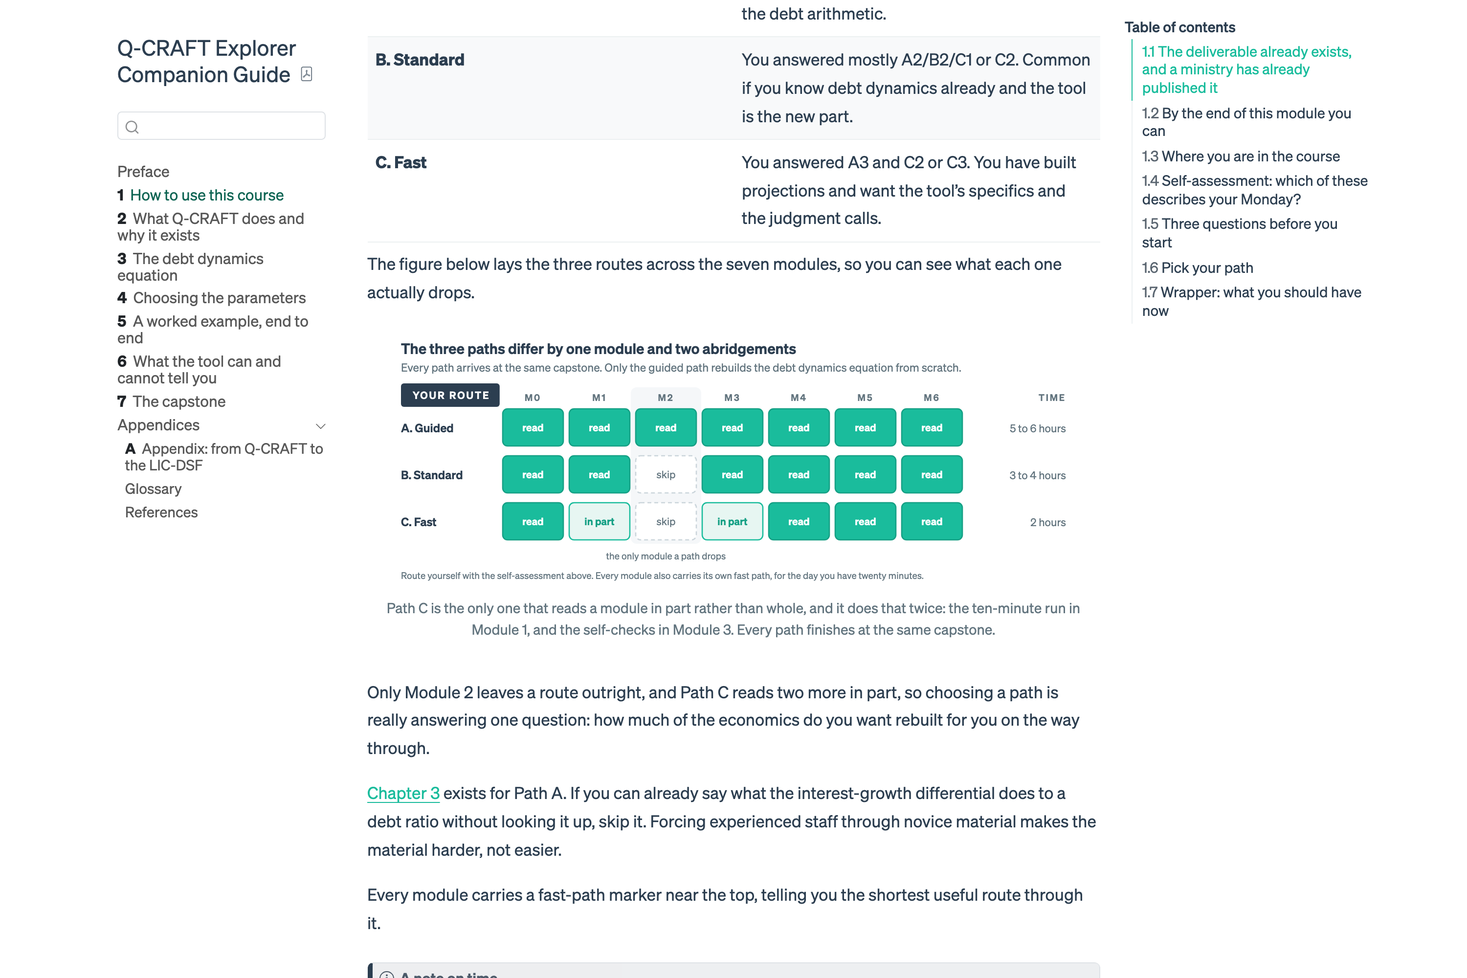
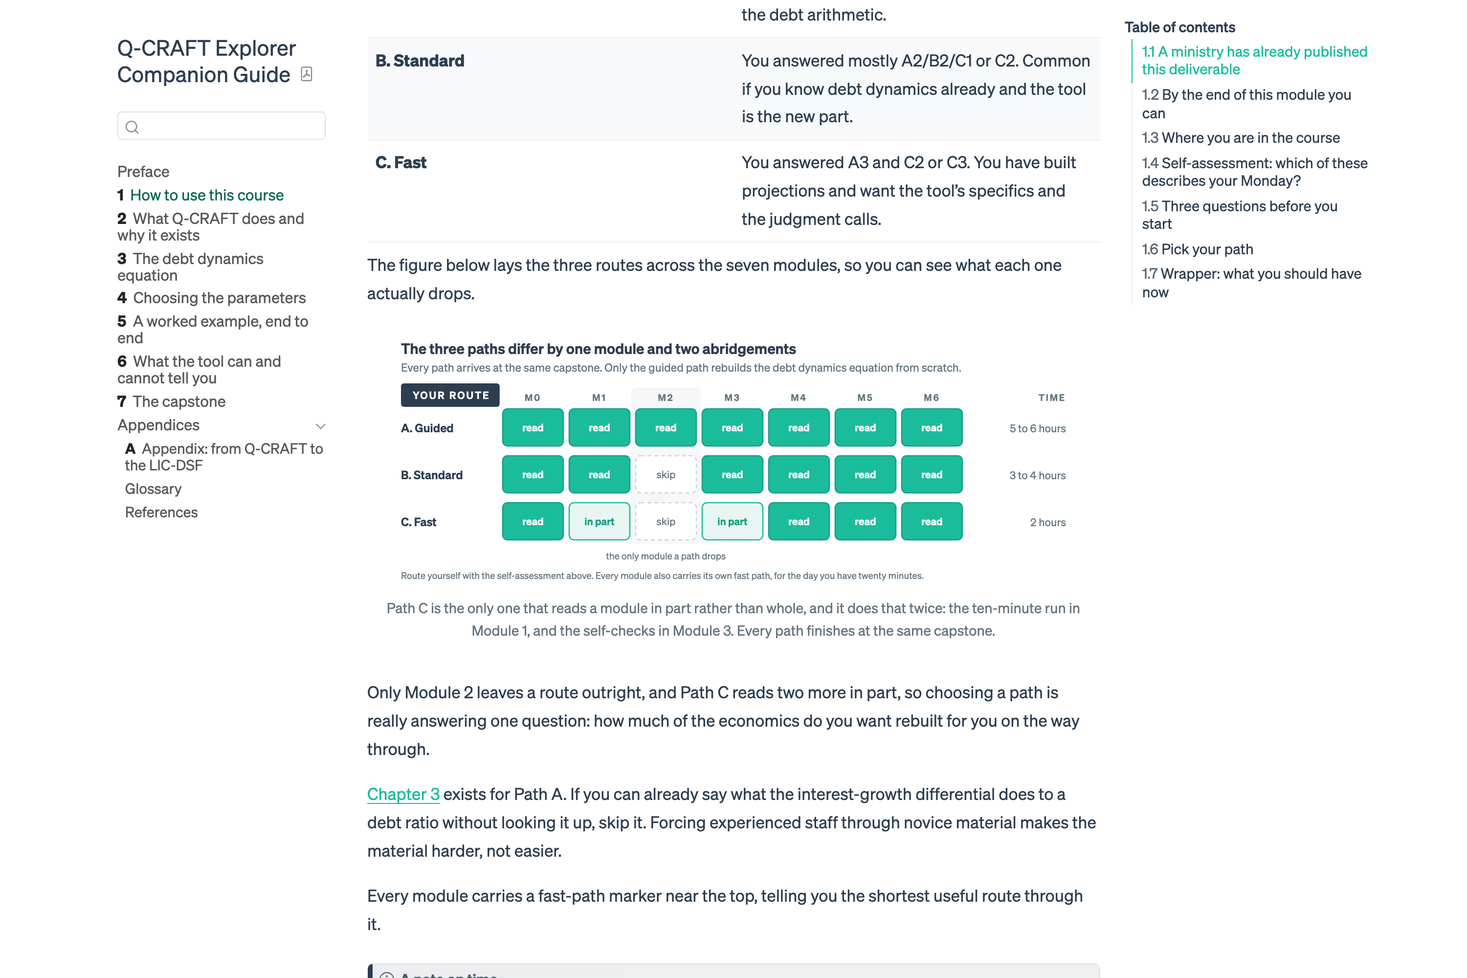
docs: run 7 morning report, the FRS verification result and the tic sweep list
Leads with the verification gate: every Uganda FRS claim checked line by line
against the PDF on disk, with two corrections (the chapter has two different
titles, and there are three source lines rather than one) and one claim I
could not verify from disk, the five-day workshop duration, flagged rather
than quietly kept or quietly cut.

Then the seventeen rule 12 replacements with before and after, the nine
headings deliberately left alone with the reason, the ten new collapsibles,
the five worked-number blocks with their arithmetic, the M1 restructure and
the three rounds of vision QA on map v3.

diff --git a/MORNING-REPORT.md b/MORNING-REPORT.md
@@ -4,6 +4,200 @@ Branch: `feat/lane4-course`. Nothing pushed, no remotes added. Run dates 2026-08
 
 Most recent run first.
 
+## Run 7: the FRS verified, the Lego arc, layered callouts
+
+### Status
+
+Done. Both profiles render clean: `quarto render docs/companion-guide --profile brand` exits 0, then `quarto render docs/companion-guide` exits 0, neither with a warning or an unresolved cross-reference. The brand render was taken first and the default render last, so the committed artefacts are the default profile's output and no HTML page in `_book/` references the Klim stylesheet. The committed PDF is rebuilt at 98 pages, four more than run 6, the extra pages being M1's two-stage restructure and the new collapsible blocks.
+
+Five commits. The banned-tics sweep reports zero em-dashes, zero occurrences of "toil", and one semicolon, which sits in a compact table cell and is the case rule 9 allows. Marker counts are unchanged from run 6 in every cell: DRAFT FOR TEAL 26, SCREENSHOT-TODO 5, WIDGET-TODO 3, TODO headings 6. Collapsible callouts go from 18 to 28.
+
+**The headline, because it is the gate.** Every claim about the Uganda Fiscal Risk Statement FY 2024/25 checks out against the PDF in `source-materials/`. The page range, the scenario count, the 50 percent ceiling finding and the QCRAFT (2023) source line are all confirmed, with two small corrections to how they were being described. Detail in section 1.
+
+---
+
+### 1. The FRS verification gate
+
+The document is on disk at `source-materials/2024_MoFPED_Uganda-Fiscal-Risk-Statement-FY2024-25.pdf`, 31 pages, produced in Microsoft Word and dated 8 May 2024 in its own metadata. Its title page reads "FISCAL RISK STATEMENT / MINISTRY OF FINANCE, PLANNING, AND ECONOMIC DEVELOPMENT / MACROECONOMIC POLICY DEPARTMENT / FY 2024/25", with a foreword signed by Matia Kasaija (M.P), Minister of Finance, Planning and Economic Development. Printed page numbers and PDF page numbers agree throughout, so a page citation means the same thing either way.
+
+I extracted the text with `pdftotext -layout` and checked each claim against the page it is supposed to come from.
+
+| Claim as it was stated | Verdict | What the file shows |
+|---|---|---|
+| Pages 13 to 17 carry the climate section | **Confirmed** | Section III opens on printed page 13 and Section IV opens on page 18. The Q-CRAFT material specifically runs pages 14 to 17. |
+| The chapter is called "Climate Change Fiscal Risks" | **Corrected** | That is the table-of-contents title. The body heading on page 13 reads "III. CLIMATE CHANGE AND NATURAL DISASTER FISCAL RISKS". Both are now given. |
+| It reports five climate scenarios | **Confirmed** | Page 14: the tool quantifies effects "under five different climate scenarios, against a baseline". The five are named and defined on pages 14 and 15: Paris, Moderate, High, Hot, Vulnerable. |
+| Headline finding: debt passes the 50 percent of GDP fiscal rule ceiling | **Confirmed, verbatim** | Page 17: "In the High, Hot, and Vulnerable scenarios, public debt surpasses the 50 percent of GDP fiscal rule ceiling, taking on an unsustainable upward trajectory." |
+| The source line reads "QCRAFT (2023)" | **Confirmed, with a count** | Three source lines, not one. Page 15: "Source (Fig 8 & Tab 5: QCRAFT (2023)" (the opening parenthesis is unclosed in the original). Page 16 and page 17: "Source: QCRAFT (2023)". |
+| Q-CRAFT is named in the document | **Confirmed** | Page 4, in the framing section: the analysis "expanded its scope on fiscal risks associated with climate change by using the Quantitative Climate Risk Assessment Fiscal Tool (Q-CRAFT) for long term fiscal sustainability analysis." Page 14 says "Using the Q-craft tool". |
+
+The other Uganda numbers already in the course were checked at the same time, since the file was open.
+
+| Claim | Where in the course | Verdict |
+|---|---|---|
+| Table 5 baseline path: 47.1 / 36.2 / 35.8 / 47.5 debt-to-GDP at 2023 / 2050 / 2075 / 2099 | @sec-m4 target format | **Confirmed**, every cell, page 15 |
+| Primary expenditure 19.9 to 19.4, dipping to 18.8 around 2075 | @sec-m4 sanity check | **Confirmed**, Table 5 |
+| Primary deficit 6.3 to 1.4, overall deficit 3.8 at 2099 | @sec-m4 sanity check | **Confirmed**, Table 5 |
+| "the primary deficit in the Hot scenario ... 0.7 percentage points worse than baseline, thereby raising public debt by over 18 percent of GDP" | @sec-m4 fan chart reading | **Confirmed.** The document says "0.7 percent worse than the baseline"; the quoted clause is verbatim, page 17 |
+| Debt at 46.9 percent of GDP June 2023, projected 49.2 percent June 2024 | @sec-m2 self-check, @sec-m3 vintage | **Confirmed**, page 18 |
+| Debt ratio fell from 48.4, attributed partly to nominal GDP rising on high inflation | @sec-m2 self-check | **Confirmed**, page 18 |
+| Floods and epidemics about 75 percent of recorded events 1985 to 2021 | @sec-m5 exclusions table | **Confirmed**, page 13, footnoted to the World Bank Climate Risk Country Profile 2021 |
+| "Vulnerable" is the Hot Unadapted scenario under another label | @sec-m1 scenario table | **Confirmed in substance**, page 15: "Vulnerable: using the same emission as the hot ... scenario, but with slower adaptation and therefore more damaging macroeconomic impacts" |
+| GDP loss around 4 percent by end of century under Hot | @sec-m4 climate tab | **Confirmed twice.** The FRS says "a 4 percent reduction in nominal GDP by the end of the century under the Hot scenario" (page 16). The C-PIMA summary says GDP loss "could surpass 4 percentage points" |
+| Debt to 66 percent of GDP against 47.5 percent baseline | @sec-m1, @sec-m0, @sec-m4 | **Confirmed** against the C-PIMA high-level summary on disk, page 3 of that file |
+
+**Two typographical oddities in the source, noted so nobody re-derives them.** The FRS prints the Paris scenario as "SSP31-2.6" on page 14 where SSP1-2.6 is meant, and prints the Vulnerable scenario's emissions as "SSP4-7.0 90th percentile" on page 15 where the Hot scenario two paragraphs earlier is SSP3-7.0 and the text says Vulnerable uses "the same emission as the hot". The course does not repeat either string. It uses the User Guide's scenario table instead, which is the right authority for scenario definitions.
+
+**One claim I could not verify from disk, flagged rather than fixed.** The course says in three places that the September 2023 activity was a *five-day* workshop. The high-level summary on disk says only that "a new CD activity covering both areas was delivered in September 2023" and refers to "a training workshop delivered by the team for the staff of the MoFPED". It gives no duration. The five-day figure comes from `SHARED/REFERENCE-NOTES.md`, which is a binding source for this lane, so I left the wording alone. If it came from the full TA report rather than the summary, the summary is not where it can be checked. The same goes for the TA report number 2024/012 in the shared notes: the file on disk is the **High-Level Summary Technical Assistance Report HLS/24/07, February 2024**, and that is the number now in `references.qmd`.
+
+---
+
+### 2. The tic sweep: rule 12, compound assertion-amplification
+
+Rule 12 in `style-guide-writing-AI.md` bans the shape where a clause after ", and" restates the previous clause bigger for drama. The test I applied: does the second clause carry a fact the first does not? If not, it is the tic.
+
+Seventeen instances replaced. The course holds 318 other occurrences of ", and". Each of those joins two different facts, so each was left alone. Headings were checked first, since the rule says the shape is worst there.
+
+| # | File | Before | After |
+|---|---|---|---|
+| 1 | `m0-start-here.qmd` heading | The deliverable already exists, and a ministry has already published it | A ministry has already published this deliverable |
+| 2 | `m1-how-qcraft-thinks.qmd` heading | The equation needs three numbers, and the tool exists to build them | The base machine, before any climate |
+| 3 | `index.qmd` | The Fiscal Affairs Department built it for its own climate technical assistance, and that is where it is used. | The Fiscal Affairs Department built it for its own climate technical assistance. |
+| 4 | `index.qmd` | The third part belongs with the first two, and the honest way to hold it is as a pairing. | The honest way to hold the third part is as a pairing with the first two. |
+| 5 | `m1-how-qcraft-thinks.qmd` | Climate scenarios lower growth, and that is the only way climate enters the equation. | Lowering growth is the only way climate enters the equation. |
+| 6 | `m1-how-qcraft-thinks.qmd` | The second claim is narrower than the first, and the difference matters. | The second claim is narrower than the first. |
+| 7 | `m1-how-qcraft-thinks.qmd` | That machine is what this section teaches, and it is worth learning on its own, because ... | That machine is what this section teaches. It is worth learning on its own, because ... |
+| 8 | `m2-debt-equation.qmd` table cell | A zero primary balance stabilizes debt, and only here. | A zero primary balance stabilizes debt only here. |
+| 9 | `m3-parameters.qmd` | Nothing, in this case, and that is worth being clear about. | Nothing, in this case. |
+| 10 | `m4-worked-example.qmd` | The seven steps are the method, and the method is what transfers. | What transfers to your own country is the method, which is the seven steps below. |
+| 11 | `m4-worked-example.qmd` | Eighteen and a half percentage points is the headline, and it is the number that goes in the first sentence. | Eighteen and a half percentage points is the number that goes in the first sentence. |
+| 12 | `m4-worked-example.qmd` | The seven steps are a method, and the method is the part that transfers. | The seven steps are the part that transfers. |
+| 13 | `m5-boundaries.qmd` | The whole module is one pairing, and it is worth having in a single breath before the detail arrives. | Here is the whole module in one breath, before the detail arrives. |
+| 14 | `m5-boundaries.qmd` | The asymmetry matters for a narrow set of countries, and for those countries it matters a lot. | For a narrow set of countries the asymmetry matters a lot. |
+| 15 | `m5-boundaries.qmd` | **Both, in sequence, and this is the interesting one.** | **Both, in sequence.** This is the interesting one. |
+| 16 | `m6-capstone.qmd` | **One error disqualifies on its own**, and it is worth naming separately because it recurs | **One error disqualifies on its own**, and it recurs often enough to name separately |
+| 17 | `m6-capstone.qmd` | Two things arrive after the workshop, and they are part of the course rather than an afterthought. | Two things arrive after the workshop, as part of the course rather than as an afterthought. |
+
+Rows 1 and 2 are heading rewrites folded into the larger structural changes in sections 5 and 7. The other fifteen are replacements of the shape and nothing else.
+
+**Nine headings I left alone, with the reason**, so the judgment is auditable rather than silent:
+
+- "Q-CRAFT runs in a published Excel workbook, and in this Explorer" (M1). Two surfaces, two facts.
+- "Warming lowers growth, and weakens the primary balance when spending is rigid" (M1). Growth always, the primary balance conditionally. Two facts.
+- "Four tabs, and what each one is for" (M3). A count and a purpose.
+- "Five controls, and four of them shape the projection" (M3). The second clause narrows rather than amplifies.
+- "Step 1: set the parameters, and write down why" (M4). Two actions.
+- "What the tool is good at, and why it was built that way" (M5). A property and its cause.
+- "What the numbers mean, and what they do not" (M5). A contrast pair, not an escalation.
+- "the answers, and what a wrong one means now" (M6). Two different things the panel contains.
+- "Two things move the ratio: the interest-growth gap and the primary balance" (M6 wrapper). A serial list.
+
+---
+
+### 3. Layered depth: collapsible callouts as the standard
+
+Eighteen collapsible callouts before this run, 28 after. The rule I applied: the visible default carries the full message, and the collapsible carries an optional route to the same message or a numeric demonstration of it. Nothing load-bearing went behind a click.
+
+**Ten new collapsibles.** Four are the worked-number blocks in section 4. Three are conversions of existing depth in M5. One is the kitchen analogy converted in M1, one is a new M1 block holding two asides that used to interrupt the prose, and one is the page-by-page FRS anatomy in M4.
+
+**Converted from always-visible to collapsible:**
+
+| Block | File | Why it can collapse |
+|---|---|---|
+| DRAFT FOR TEAL: what conservatism does not buy you | `m5-boundaries.qmd` | The section above already states the conservatism finding with its sources. This is the second-order hazard, which is a real point and not the point. |
+| DRAFT FOR TEAL: how the asymmetry changes what you are looking at | `m5-boundaries.qmd` | "The rule" callout, the two-panel figure and the sentence under it carry the asymmetry. This block is the detail on when it bites. |
+| DRAFT FOR TEAL: why this exercise and not a worked comparison | `m5-boundaries.qmd` | Instructor-facing rationale for a pedagogical choice. A learner does not need it to do the exercise. |
+| DRAFT FOR TEAL: the kitchen version | `m1-how-qcraft-thinks.qmd` | An alternative route to a chain the prose has already walked. It now reads "prefer it as a kitchen?" and sits at the end of the base-machine section rather than in the middle of it. |
+| Two properties of the base machine worth knowing | `m1-how-qcraft-thinks.qmd` | New. Holds the partial-equilibrium limit and the seven-functions architecture aside, which were two interruptions in the old running prose. |
+
+**What did not collapse, deliberately.** M2's three DRAFT FOR TEAL blocks (building the equation from words, what the differential does, the debt-stabilizing primary balance) are the module. M4's interpretation blocks and its model two-paragraph write-up are the module's target artefact. M0's concept-inventory questions stay open with only their answers collapsed, which is the existing predict-then-check pattern.
+
+---
+
+### 4. Worked numbers, one per named equation
+
+Five equations are named in the course. Four now carry a collapsible worked example with round numbers, one pass through the arithmetic, and one sensitivity line. The fifth, the debt-stabilizing primary balance, already had its arithmetic worked in the open, so it gained the sensitivity line it was missing rather than a new block. Every figure below was computed rather than estimated.
+
+| Equation | Where | The pass | The sensitivity line |
+|---|---|---|---|
+| Debt dynamics, one year | @sec-m1 | d 60, r 8, g 6, pb -1. 60 × 1.08 / 1.06 = 61.1, then 61.1 − (−1.0) = 62.1 | Growth to 7 percent gives 61.6 instead of 62.1. Ten years of the same two settings gives 83.2 against 76.3 |
+| Debt dynamics, three years | @sec-m2 | The same setup walked to 62.1, 64.3, 66.5, with the borrowing contribution held at 1.0 a year and the amplifier growing from 1.1 to 2.2 | Growth at 7 percent lands at 64.7 rather than 66.5, so one point of growth is worth 1.8 points of ratio over three years |
+| Growth decomposition | @sec-m1 | Employment 2, productivity 3, inflation 5. 1.02 × 1.03 = 1.0506, then × 1.05 = 1.1031, so 10.31 percent against 10.00 additive | Productivity down one point gives 9.24 percent, a loss slightly larger than the point removed |
+| Expenditure growth | @sec-m1 | Productivity 3, inflation 5, population 2. 100 × 1.03 × 1.05 × 1.02 = 110.3 against 110.0 additive | Over seventy years the multiplicative path ends about 22 percent above the additive one |
+| Debt-stabilizing primary balance | @sec-m2 | Existing: 0.50 × (0.09 − 0.06) / 1.06 = 0.0142, so a surplus of about 1.4 percent of GDP | New: growth down one point raises the required surplus from 1.4 to 1.9 percent of GDP |
+
+The debt dynamics example uses the 60 percent of GDP start you specified. The 22 percent figure in the expenditure row is (1.10313 / 1.10)^70, which is where the additive shortcut stops being a rounding difference and becomes a different projection.
+
+---
+
+### 5. The Lego arc in M1
+
+M1 was one continuous explanation in which climate appeared partway through as another supplier. It is now a two-stage reveal, and the section numbering in the sidebar shows it:
+
+- **2.5 The base machine, before any climate.** Opens by saying what it is: a long-term fiscal projection model, the same one underneath every debt sustainability analysis the reader has met, with no warming in it. Then 2.5.1 the equation, 2.5.2 where the three numbers come from with growth, the interest rate and the primary balance as H4 subsections, and a short close, "That is the base machine", which states the complete inventory: two published sources, five controls, three manufactured numbers, one equation, one debt path.
+- **2.6 The warming block snaps on.** Opens on "Everything above runs without climate. Now add one block", then the docking map, then the mechanism. A new three-row table says what each of the three numbers does under warming, including the row that says the interest rate is untouched, which is the fact that makes the block a block.
+
+The second arrow got a paragraph it did not have. The old text said climate worsens the primary balance "when expenditure is rigid" and moved on. It now says why: revenue tracks nominal GDP, a smaller economy collects less, spending does not automatically shrink to match, and how much of it does is the rigidity control in @sec-m3.
+
+Three framing pieces were updated to match: the "In this module" callout now describes the two stages, the objectives gain "**Distinguish** what the base projection model does from what the warming block adds to it", and the fast path points at the docking map rather than at a section that no longer exists under that name.
+
+**One factual correction on the way through.** The old three-number table said the reader controls "the climate scenario" under warming. The Explorer has no scenario selector: all six scenarios run and the reader chooses which to read against the baseline. The new table says that, and the sidebar count is now stated as five controls counting the country selection, which is what the app actually holds (`apps/qcraft-app/app.py`, five `ui.input_*` calls).
+
+---
+
+### 6. Map v3
+
+`scripts/build_course_map.py` gained two things.
+
+**Named ingredients.** The three source boxes were "Macro series / IMF World Economic Outlook", "Population / UN World Population Prospects" and "The controls you set / five of them, in the sidebar". A reader could not check any of that against anything. Each box now lists its contents:
+
+- **Macro series.** real GDP, nominal GDP, deflator, revenue, expenditure, debt, primary and overall balance. That is the eight sections `scripts/extract_excel_data.py` reads out of the workbook's Macrofiscal sheet, which is the authoritative list rather than a plausible one.
+- **Population.** by age group, working age 15-64, medium, high and low variants.
+- **The controls you set.** country, demography variant, debt target, fiscal rule, expenditure rigidity. The five `ui.input_*` calls in the app sidebar, in sidebar order.
+
+Both layouts grew to hold the extra lines: the wide boxes go from 168 × 52 to 200 × 84 units with the chain shifted right to keep the arrow gaps, and the tall boxes go from 204 × 62 to 214 × 104 with everything below them offset. Detail lines set at 10.5 units, which is about 8 point in the book column, one step down from the source line rather than two.
+
+**The docking variant.** A new `m1-dock` variant introduces a third contrast tier. Where the resting palette is white boxes with ink titles and the lit palette is teal with white titles, dimmed boxes keep the white fill and drop to `#EAEEF1` strokes, `#A7B4BC` titles and `#C3CCD2` subtitles. Every connector, arrowhead, verb label, the panel background and the debt-path fan honour the tier, so the base chain recedes as one object. The warming block stays lit, its two dashed arrows thicken from 1.6 to 2.8 units, and the note beside it changes to "The block docks onto two nodes of a machine that already works. No new equation, no new term, two arrows."
+
+**Vision QA.** Three rounds. Round 1 built the boxes at 9.5-unit detail lines and I rejected them: at the three-quarter scale the book sets the figure, that is about 7 point, which is smaller than any other text in the diagram. Round 2 widened the boxes to 200 units, moved the panel, equation, paths and climate bus right by 22 units, and raised the detail lines to 10.5. Round 3 confirmed the dimmed tier renders as intended and that the lit ingredient boxes in the M3 variant still read (white on teal, all three detail lines legible).
+
+Screenshots in `review-screenshots/`:
+
+| File | What to look at |
+|---|---|
+| `course-map-m1-dock.png` | The docking variant on its own. The base chain grey, the warming block teal, two thick dashed arrows into growth and the primary balance |
+| `course-map-m1-dock-in-page.png` | The same figure in the M1 page, under section 2.6, with the sidebar and the section numbering visible |
+| `course-map-m1.png`, `course-map-m1-in-page.png` | The standard variant with the named ingredient boxes |
+| `course-map-m0.png`, `course-map-m4.png`, `course-map-m5.png` | The other variants, confirming the geometry change did not break them |
+| `m1-worked-debt-equation.png` | The worked-numbers callout expanded, with the LaTeX arithmetic |
+| `m1-worked-growth.png` | The growth decomposition callout expanded |
+| `m2-worked-three-years.png` | The annotated-equation SVG with the three-year callout under it |
+| `m4-frs-anatomy.png` | The page-by-page FRS anatomy expanded |
+| `m0-hook.png` | The recast opening section, with no country in it |
+
+---
+
+### 7. De-Uganda the hook
+
+`m0-start-here.qmd` now contains the string "Uganda" zero times. The section that led with one country's fiscal risk statement now leads with the genre: most finance ministries publish a fiscal risk statement, a budget framework paper or a medium-term debt report every year, the climate section is the part that has been arriving recently, and at least one published statement already carries a section built with this tool with the figures sourced to it by name. It then hands the concrete document to @sec-m4.
+
+Two other Uganda references in M0 went with it. The concept-inventory answer that ended "The 47.5 and 66 percent figures come from the September 2023 IMF workshop with Uganda's ministry staff" now says the figures are real, come from a five-day workshop with the staff of one finance ministry, and are worked in @sec-m4. The desk exercise that said "open Uganda's Fiscal Risk Statement FY 2024/25 at page 13" now points at the published section @sec-m4 works through.
+
+M1's scenario-naming note lost its country too. It said "Uganda's Fiscal Risk Statement FY 2024/25 reports five of these and calls the last one Vulnerable". It now says the worked case in @sec-m4 carries five scenarios under its own labels, which is the transferable fact.
+
+M4 gained the specifics as a collapsible page-by-page anatomy, quoted from the file, plus the document's publisher, its length and the count of source lines. `references.qmd` gained both published documents as full entries.
+
+---
+
+### 8. Things for you to decide
+
+1. **The five-day workshop claim.** Still asserted in `index.qmd` and `m1-how-qcraft-thinks.qmd`, sourced to the shared notes rather than to a document on disk. If the duration matters for the Sept 1 session, it is worth confirming against the full TA report. If it does not, "a workshop with ministry staff in September 2023" is verifiable from the summary and loses nothing.
+2. **The Excel half of the both-ways promise.** Unchanged from run 6 and still the largest open scope item. The preface promises both surfaces and only the Explorer exists.
+3. **The dimmed tier's contrast.** The greyed base chain in the docking map is readable rather than ghosted, which was deliberate: a reader who cannot make out the base chain cannot see what the block is docking onto. If you want it fainter, `DIM_TITLE` and `DIM_SUB` in `scripts/build_course_map.py` are the two constants.
+4. **Where the worked-number callouts sit.** They are placed directly under each equation. An alternative is to gather all five into an appendix and link them, which would shorten M1 and M2 at the cost of putting the arithmetic a click and a page away.
+
+---
+
 ## Run 6: the both-tools promise, and the four reasons for the Explorer
 
 ### Status
